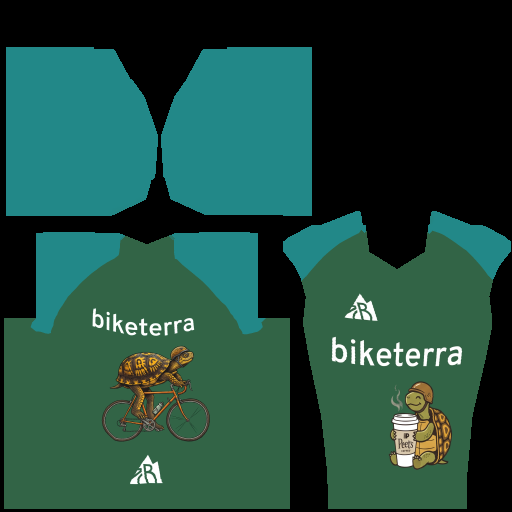
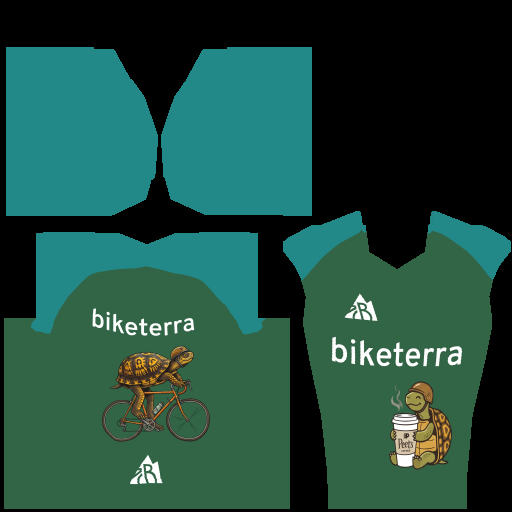
Turtle: end the back green below the neck, without the collar's tab
The views' collar band covered the strip of back panel between the raglan
seams at the neck; with no collar it showed as a tab of green. Pull the
back seam in toward the centre near the neck so the yoke runs across it.

Claude-Session: https://claude.ai/code/session_01Ezc9BDKGpKnmr8NuaU9G4H

Changed region(s): [[0.1875, 0.4375, 0.375, 0.5625]]

diff --git a/oneoff/turtle/README.md b/oneoff/turtle/README.md
@@ -28,7 +28,10 @@ Rerunning reproduces the saved PNG pixel for pixel.
 - **Body** green (50,100,70), collar included, as in the views. **Yoke
   and sleeves** teal (34,136,136) beyond a raglan plane through the side of
   the neck (`NECKF` 6.5 front, `NECKB` 5 back) and the armpit, bowed `BOW`
-  3.5 out toward the shoulder halfway down.
+  3.5 out toward the shoulder halfway down. On the back the seam is also
+  pulled `NECK_IN` 8 toward the centre at the neck, easing off over the top
+  `NECK_TOP` 0.3 of the way to the armpit, so the green ends in a dome below
+  the neck and the yoke runs across the back of the neck.
 - **Art** is laid on the torso by arc length round it from the centre line
   (across) and height along the torso axis (up). Each view is at its own
   scale, collar to hem down the centre line: 31.4 px/cm front, 31.7 back.
@@ -47,6 +50,13 @@ Rerunning reproduces the saved PNG pixel for pixel.
 - Measured as 3D distance from the hem, rows arched on the back, lifting the
   ends of the lettering into the yoke, because the hem is higher at centre
   back. Height along the torso axis keeps them level.
+- Without the pull-in, the back plane ran nearly straight down from the
+  neck, leaving a tab of green there. On the views the collar band covers
+  that spot, so with no collar it should be yoke. Moving the plane's back
+  neck point in only narrowed the tab and moved the front seam. Measuring
+  the back seam as arc length round the torso failed too: above the
+  armpits the section is open, and the seam came out jagged and too far
+  out.
 - With `BOW` 2.5 the yoke clipped the back lettering's "b"; 3.5 clears it and
   is closer to the views' curved seam.
 - From back-close, the back lettering still looks slightly arched. That is
